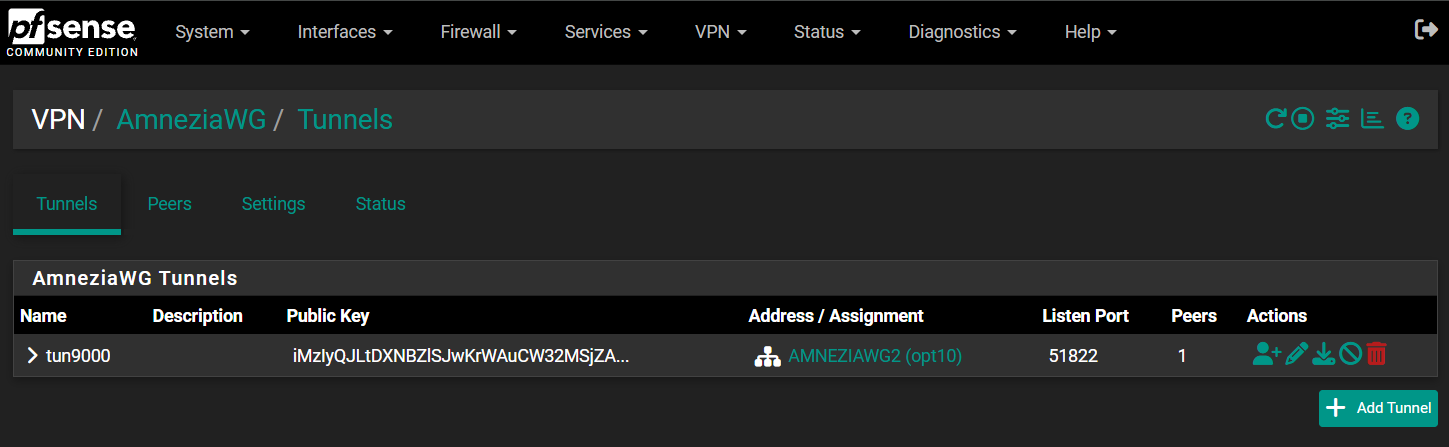
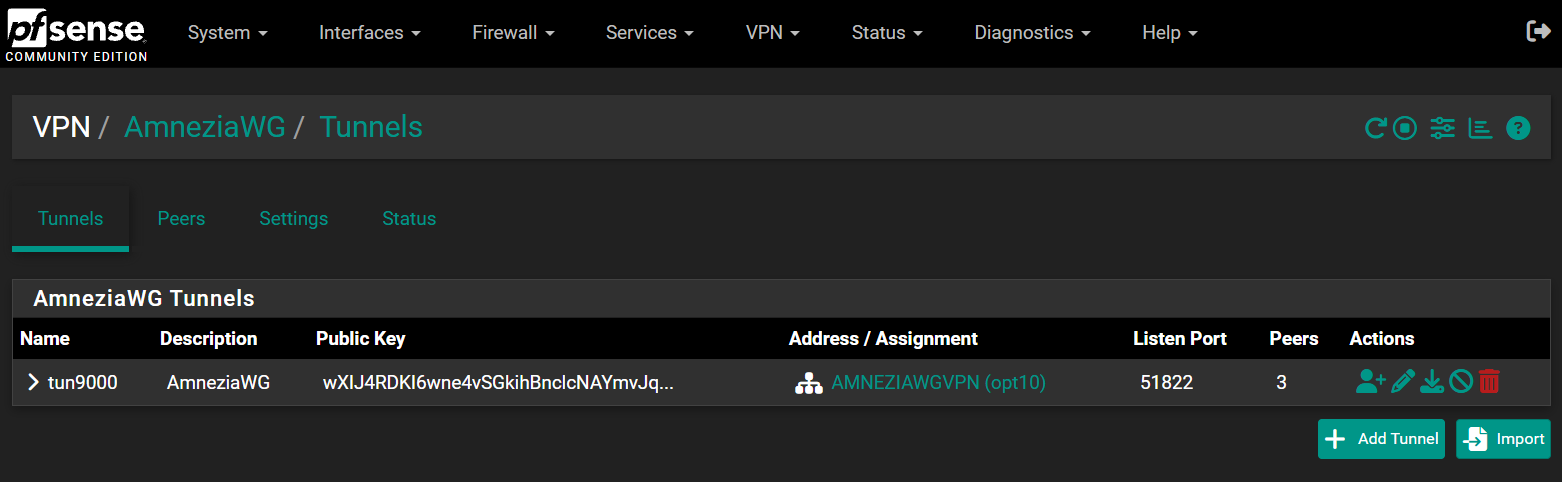
Show 3.x and the importer, and stop the browser eating the payload examples
New screenshots: the obfuscation section split in two, since it no longer fits
in one, and the import page.

Taking them turned up a display bug they would have published. The Junk Payloads
help spelled out the template syntax -- <b hex>, <t>, <r N> -- as literal text
in a string that is printed as HTML, so the browser swallowed every example and
left "a template: literal bytes, a timestamp, / / that many random bytes", which
explains nothing and is exactly where an example was needed. Escaped, and in
<code> so it reads as syntax. No other help text does this.

diff --git a/src/usr/local/www/awg/vpn_awg_tunnels_edit.php b/src/usr/local/www/awg/vpn_awg_tunnels_edit.php
@@ -655,7 +655,14 @@ if ($awg2) {
 	}
 
 	$group->addClass('awg-v2-only')
-	      ->setHelp(gettext('Optional junk packets with content you choose, sent before the handshake. Each is a template: <b hex> literal bytes, <t> a timestamp, <r N> / <rc N> / <rd N> that many random bytes, letters or digits.'));
+	      /*
+	       * Las etiquetas van escapadas: el texto de ayuda se imprime como HTML,
+	       * asi que <b hex> y <t> los toma el navegador como marcado y los
+	       * desaparece -- dejando 'a template: literal bytes, a timestamp, / /
+	       * that many random bytes', que no explica nada. Justamente los
+	       * ejemplos que hacian falta.
+	       */
+	      ->setHelp(gettext('Optional junk packets with content you choose, sent before the handshake. Each is a template: <code>&lt;b hex&gt;</code> literal bytes, <code>&lt;t&gt;</code> a timestamp, <code>&lt;r N&gt;</code> / <code>&lt;rc N&gt;</code> / <code>&lt;rd N&gt;</code> that many random bytes, letters or digits.'));
 
 	$section->add($group);
 

diff --git a/README.md b/README.md
@@ -32,9 +32,22 @@ Los túneles, con su estado y sus peers:
 ![Túneles](docs/img/tunnels.png)
 
 La sección **Obfuscation**, que es lo que este paquete tiene y ningún otro: el
-selector de compatibilidad y los parámetros, todos sorteados por túnel.
+selector de compatibilidad y los 25 parámetros, sorteados por túnel. Lo de 1.x y
+2.0 —paquetes basura, relleno del handshake, magic headers—:
 
-![Ofuscación](docs/img/obfuscation.png)
+![Ofuscación, 1.x y 2.0](docs/img/obfuscation1.png)
+
+Y lo que estrenaron 3.0 y 3.1, que aparece sólo si el selector llega: la clave de
+protección de headers con su botón propio, el relleno de contenido, los cinco
+tiempos del protocolo y los dos booleanos:
+
+![Ofuscación, 3.0 y 3.1](docs/img/obfuscation2.png)
+
+**Importar** un `.conf` que ya existe en otro lado —otro firewall, un proveedor,
+o uno que exportó este mismo paquete— en vez de transcribir 25 valores a mano,
+donde un solo dígito mal no da error y deja el handshake sin cerrar para siempre:
+
+![Importar](docs/img/import.png)
 
 La lista de peers, con descargar, QR y mail al lado de editar:
 
